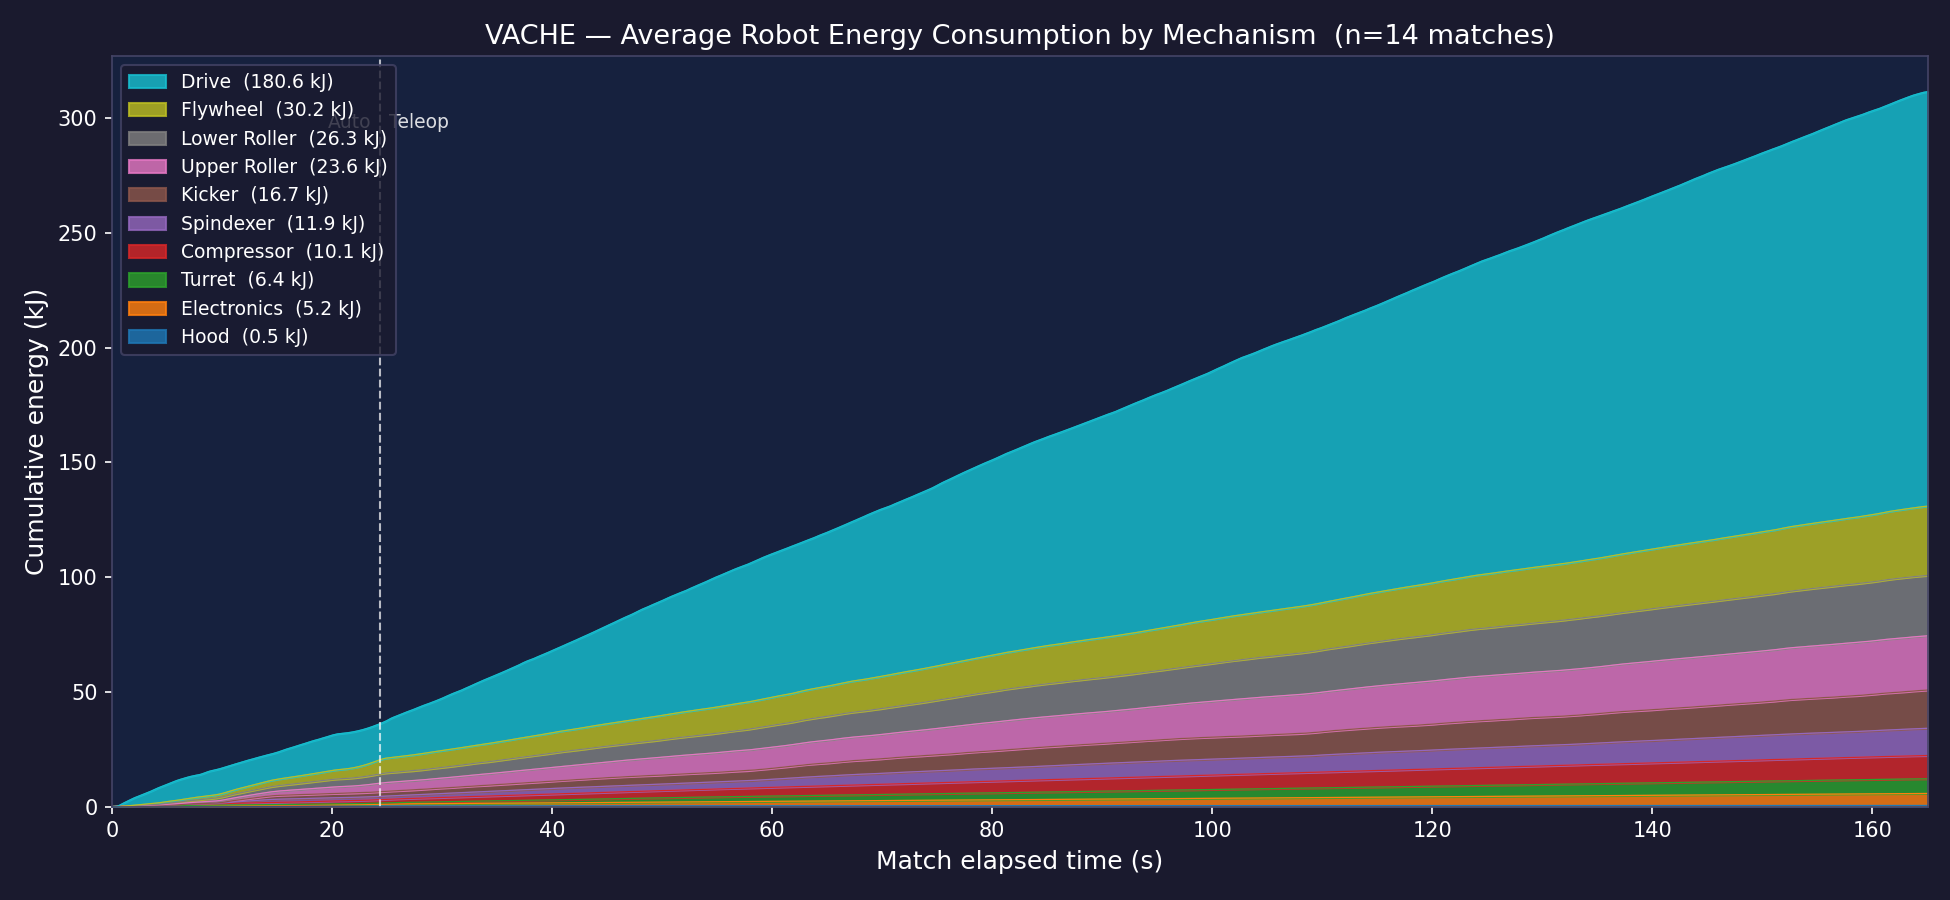
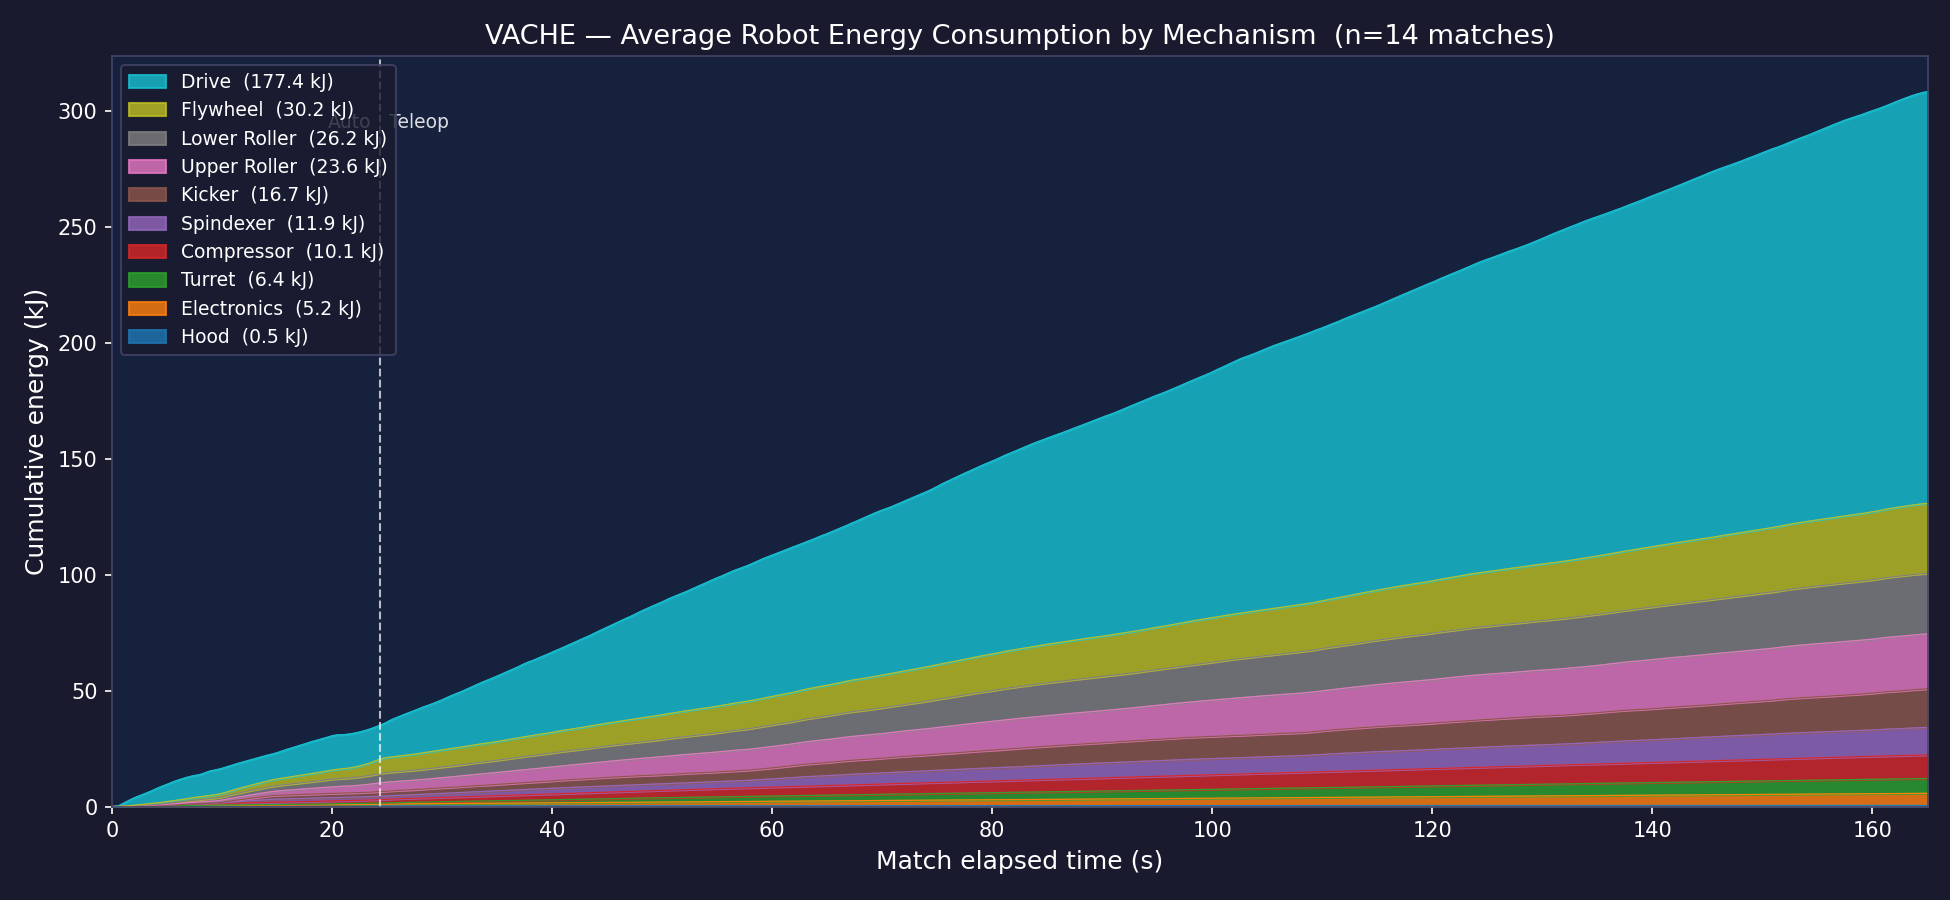
account for Kraken regenerative braking in energy analysis
Remove supply current floor (np.maximum(..., 0)) for Kraken-powered
mechanism groups (Drive, Flywheel, Lower Roller, Upper Roller).
TalonFX/Phoenix 6 reports negative supply current during regen;
clamping it to zero was silently discarding ~3.2–3.6 kJ of recovery
per match (~1.8% of drive energy).

Add KRAKEN_GROUPS constant to control which groups integrate without
clamping. Non-Kraken groups (Spindexer, Kicker, Turret, Hood,
Compressor) and PDH-sourced Electronics keep clamp=True since their
supply current is always non-negative.

Updated numbers (14-match average):
  Drive:  180.6 → 177.4 kJ
  Total:  311.5 → 308.1 kJ

diff --git a/scripts/energy_analysis.py b/scripts/energy_analysis.py
@@ -98,6 +98,11 @@ MECHANISM_GROUPS = {
     "Electronics": [],  # OrangePis/LEDs + RIO/radio/CANivore/coprocessors — sourced from PDH channels
 }
 
+# Mechanisms using Krakens (TalonFX/Phoenix 6) whose supply current can go
+# negative during regenerative braking.  Energy is integrated without clamping
+# for these groups so regen recovery reduces the net energy total.
+KRAKEN_GROUPS = {"Drive", "Flywheel", "Lower Roller", "Upper Roller"}
+
 # ---------------------------------------------------------------------------
 # Log reader
 
@@ -193,10 +198,15 @@ def interp_entry(
 
 
 def cumulative_energy_J(
-    t_abs: np.ndarray, current: np.ndarray, voltage: np.ndarray
+    t_abs: np.ndarray, current: np.ndarray, voltage: np.ndarray,
+    clamp: bool = False,
 ) -> np.ndarray:
-    """Trapezoid-integrate P=V*I; supply current clamped >=0. Returns J array."""
-    power = np.maximum(current, 0.0) * voltage
+    """Trapezoid-integrate P=V*I. Returns J array.
+    clamp=True: floor supply current at 0 (use for non-regen sources like PDH channels).
+    clamp=False (default): allow negative current so regen braking reduces net energy.
+    """
+    i = np.maximum(current, 0.0) if clamp else current
+    power = i * voltage
     dE    = 0.5 * (power[:-1] + power[1:]) * np.diff(t_abs)
     return np.concatenate([[0.0], np.cumsum(dE)])
 
@@ -221,8 +231,8 @@ def process_match(
 
     match_duration = match_end - auto_start   # seconds
 
-    def to_common(current: np.ndarray) -> np.ndarray:
-        energy_kJ = cumulative_energy_J(t_abs, current, voltage) / 1000.0
+    def to_common(current: np.ndarray, clamp: bool = False) -> np.ndarray:
+        energy_kJ = cumulative_energy_J(t_abs, current, voltage, clamp=clamp) / 1000.0
         t_elapsed  = np.linspace(0.0, match_duration, len(t_abs))
         return np.interp(COMMON_GRID, t_elapsed, energy_kJ,
                          left=0.0, right=energy_kJ[-1])
@@ -252,7 +262,8 @@ def process_match(
                     current[t_abs < in_window[0]] = 0.0
                 total_current += current
                 found = True
-        result[group] = to_common(total_current) if found else np.zeros_like(COMMON_GRID)
+        clamp = group not in KRAKEN_GROUPS
+        result[group] = to_common(total_current, clamp=clamp) if found else np.zeros_like(COMMON_GRID)
 
     # PDH-sourced overhead group (climber + RIO/radio/coprocessors/LEDs)
     electronics_i = extract_pdh_channel(arrays, PDH_ELECTRONICS_CHANNELS, t_abs)

diff --git a/scripts/energy_feeder_auto_q54.py b/scripts/energy_feeder_auto_q54.py
@@ -54,7 +54,7 @@ def main():
             in_window = ts_all[(ts_all >= AUTO_START - 1.0) & (ts_all <= AUTO_END + 1.0)]
             if len(in_window) > 0:
                 current[t_abs < in_window[0]] = 0.0
-        energies[name] = cumulative_energy_J(t_abs, current, voltage) / 1000.0   # → kJ
+        energies[name] = cumulative_energy_J(t_abs, current, voltage, clamp=True) / 1000.0   # → kJ
 
     # ── print summary ──────────────────────────────────────────────────────────
     print("\nQ54 autonomous energy (spindexer + kicker):")

diff --git a/doc/energy_analysis_writeup.md b/doc/energy_analysis_writeup.md
@@ -14,9 +14,9 @@ exist for those loads.
 
 | Mechanism | Energy | Share |
 |-----------|-------:|------:|
-| Drive | 211.7 kJ | 63.5% |
-| Lower Roller | 27.1 kJ | 8.1% |
-| Flywheel | 26.0 kJ | 7.8% |
+| Drive | 208.1 kJ | 63.1% |
+| Lower Roller | 27.1 kJ | 8.2% |
+| Flywheel | 26.0 kJ | 7.9% |
 | Upper Roller | 24.2 kJ | 7.3% |
 | Kicker | 12.7 kJ | 3.8% |
 | Compressor | 9.9 kJ | 3.0% |
@@ -24,7 +24,7 @@ exist for those loads.
 | Turret | 6.9 kJ | 2.1% |
 | Electronics | 5.3 kJ | 1.6% |
 | Hood | 0.4 kJ | 0.1% |
-| **Total** | **333.3 kJ** | |
+| **Total** | **329.7 kJ** | |
 
 Q54 was a high-energy match — drive consumption was notably higher than the
 event average, consistent with aggressive teleop movement.
@@ -40,28 +40,30 @@ autonomous enable; curves averaged on a common 165 s grid.
 
 | Mechanism | Avg Energy | Share |
 |-----------|----------:|------:|
-| Drive | 180.6 kJ | 58.0% |
-| Flywheel | 30.2 kJ | 9.7% |
-| Lower Roller | 26.3 kJ | 8.4% |
-| Upper Roller | 23.6 kJ | 7.6% |
+| Drive | 177.4 kJ | 57.6% |
+| Flywheel | 30.2 kJ | 9.8% |
+| Lower Roller | 26.2 kJ | 8.5% |
+| Upper Roller | 23.6 kJ | 7.7% |
 | Kicker | 16.7 kJ | 5.4% |
-| Spindexer | 11.9 kJ | 3.8% |
+| Spindexer | 11.9 kJ | 3.9% |
 | Compressor | 10.1 kJ | 3.3% |
 | Turret | 6.4 kJ | 2.1% |
 | Electronics | 5.2 kJ | 1.7% |
 | Hood | 0.5 kJ | 0.2% |
-| **Total** | **311.5 kJ** | |
+| **Total** | **308.1 kJ** | |
 
 ---
 
 ## Key Observations
 
-**Drive dominates.** At 58–64% of total energy, the drivetrain is by far the
+**Drive dominates.** At 57–63% of total energy, the drivetrain is by far the
 largest consumer. All growth is approximately linear, indicating sustained
-driving throughout both auto and teleop with no extended idle periods.
+driving throughout both auto and teleop with no extended idle periods. Kraken
+regenerative braking recovers ~3.2–3.6 kJ per match (~1.8% of drive energy),
+reducing net drive consumption slightly relative to gross current draw.
 
 **Shooter system is the second-largest group.** Flywheel + rollers (Lower/Upper)
-+ Kicker + Spindexer collectively consume ~98 kJ on average (31%), nearly all
++ Kicker + Spindexer collectively consume ~109 kJ on average (35%), nearly all
 of which is teleop — the bands for these mechanisms steepen noticeably after the
 auto/teleop boundary as the shooter spins up and cycles continuously.
 
